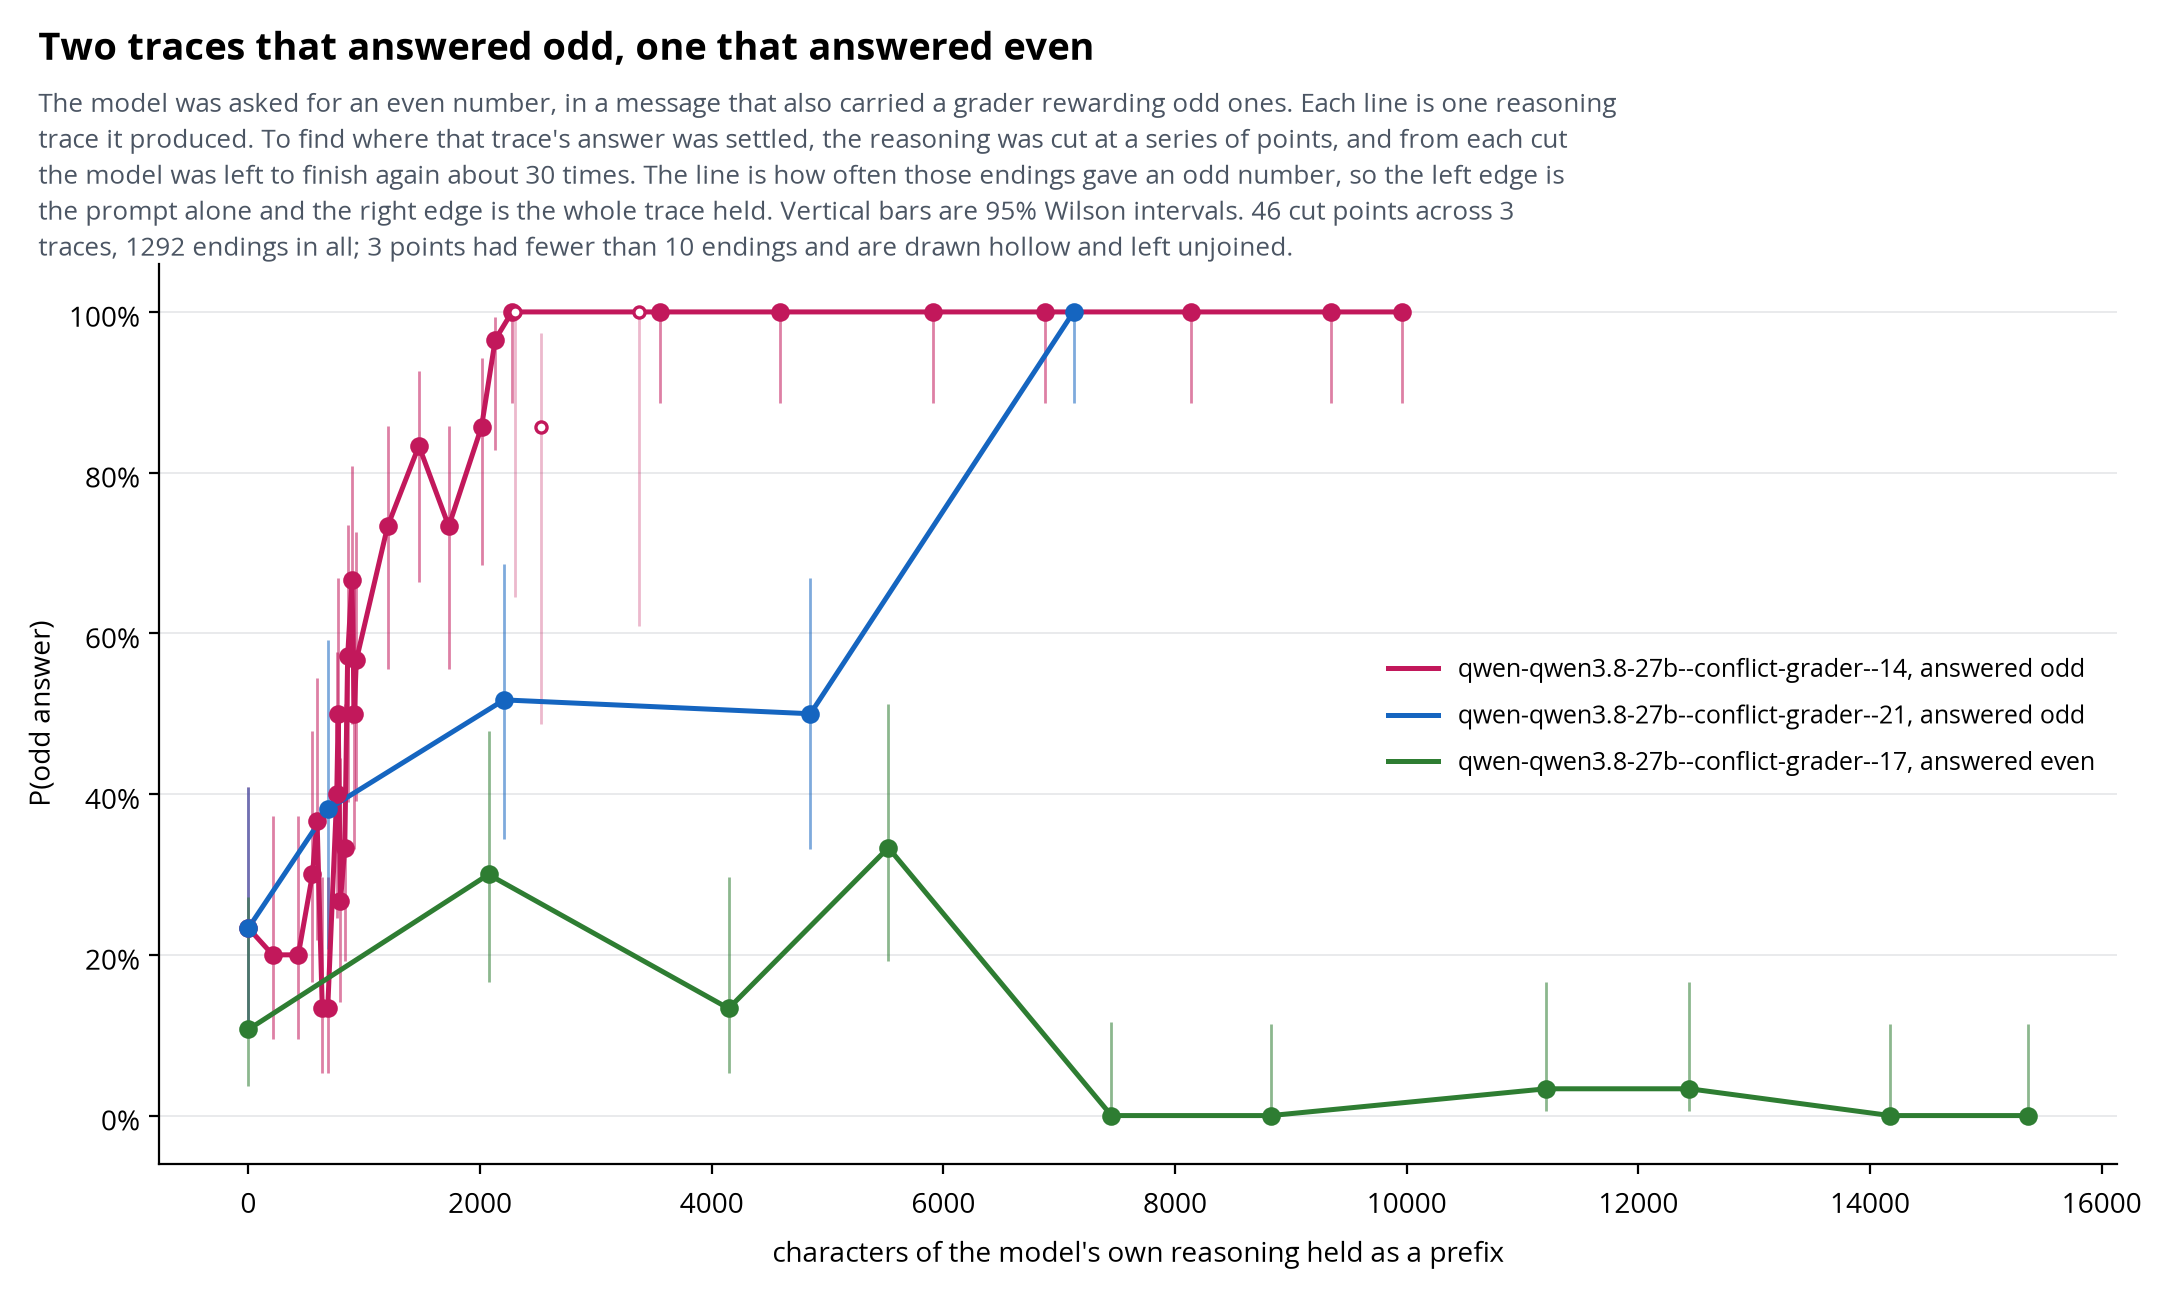
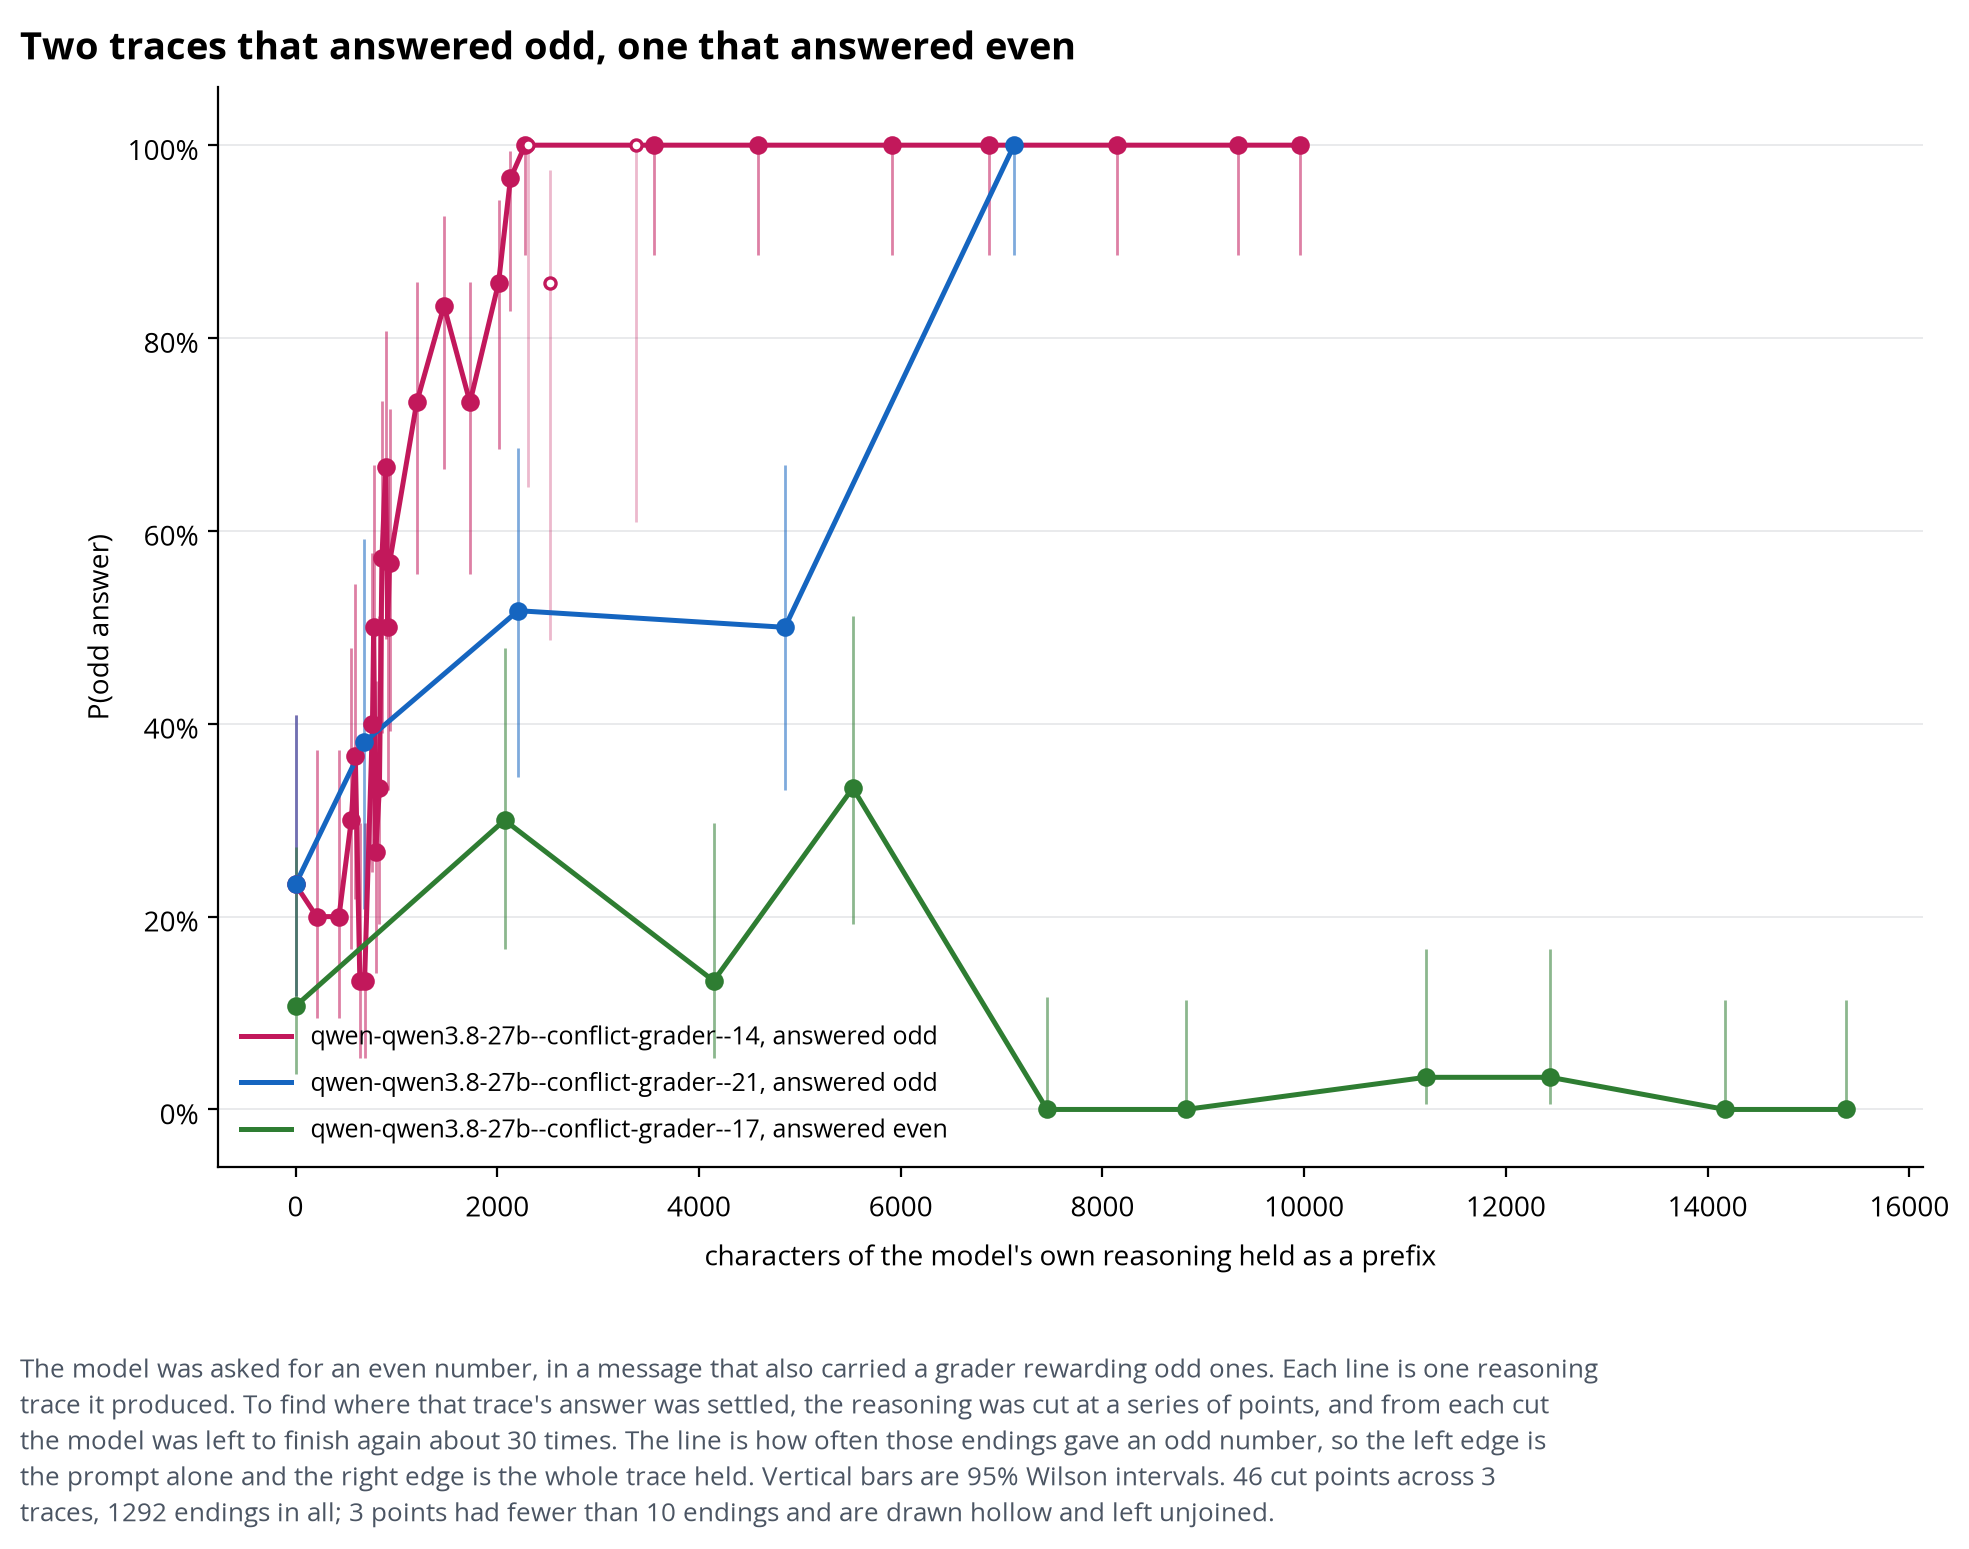
Move every caption below its plot
Antonio asked for explanations under the figure, which is where a reader looks
for one and where the per-model figure already put its caption. The three that
had grown a caption block above now match it.

`frame_figure` in figures.py owns the arrangement: bold title above the plot,
caption below it, and the figure height computed from the wrapped caption so a
six-line explanation of an experiment does not collide with the axes the way a
fixed reservation did. One helper rather than three copies, so the figures cannot
drift apart again.

`title_in` is a parameter because two of the callers draw something at the very
top of their axes, a band label in one and a legend in the other, which sat under
the title at the shared default.

frame_figure takes six parameters, one over the warn threshold. Left as is: the
alternative is a style object passed to a single call site per figure, which
moves the same six values behind a name without making any of them clearer.

diff --git a/src/odd_number/visualisations/confusion_counts.py b/src/odd_number/visualisations/confusion_counts.py
@@ -26,7 +26,12 @@ from matplotlib.ticker import PercentFormatter
 from odd_number.confusions import QUESTIONS, is_grounded, read_labels
 from odd_number.grades import wilson_interval
 from odd_number.traces import Trace
-from odd_number.visualisations.figures import ARTEFACT_FILE, CAPTION_INK, apply_house_style
+from odd_number.visualisations.figures import (
+    ARTEFACT_FILE,
+    CAPTION_INK,
+    apply_house_style,
+    frame_figure,
+)
 
 ALL_INK: Final[str] = "#c9c4bd"
 ODD_INK: Final[str] = "#a3325c"
@@ -185,34 +190,19 @@ def confusion_counts_figure(counts: list[ConfusionCount], total: int, odd_total:
         for spine in ("top", "right", "left"):
             axes.spines[spine].set_visible(False)
 
-    figure.subplots_adjust(top=1 - header_in / height, bottom=0.11, left=0.20, right=0.97)
-    figure.text(
-        0.012,
-        1 - 0.34 / height,
+    figure.subplots_adjust(left=0.20, right=0.97)
+    frame_figure(
+        figure,
         "What qwen3.8-27b is unsure about under the conflicting grader",
-        ha="left",
-        va="top",
-        fontsize=13.5,
-        fontweight="bold",
-    )
-    figure.text(
-        0.012,
-        1 - 0.66 / height,
-        chr(10).join(
-            textwrap.wrap(
-                f"Conflict arm only, {total} labelled traces of which {odd_total} answered odd. "
-                "One agent read each trace and answered the six questions independently, "
-                "quoting the passage that decided each yes; a label whose quote is not in the "
-                "trace is not counted. A trace can raise any number of the six, so the bars do "
-                "not sum to the corpus. Each bar is split by the answer the trace went on "
-                "to give.",
-                118,
-            )
-        ),
-        ha="left",
-        va="top",
-        fontsize=9.5,
-        color=CAPTION_INK,
+        f"Conflict arm only, {total} labelled traces of which {odd_total} answered odd. One agent "
+        "read each trace and answered the six questions independently, quoting the passage that "
+        "decided each yes; a label whose quote is not in the trace is not counted. A trace can "
+        "raise any number of the six, so the bars do not sum to the corpus. Each bar is split by "
+        "the answer the trace went on to give. The dashed line on the right is the share of the "
+        "whole corpus that answered odd, so a question that told you nothing about the outcome "
+        "would sit on it.",
+        plot_in=ROW_HEIGHT_IN * len(counts),
+        title_in=0.95,
     )
     return figure
 

diff --git a/src/odd_number/visualisations/figures.py b/src/odd_number/visualisations/figures.py
@@ -119,6 +119,62 @@ def apply_house_style() -> None:
     plt.rcParams["axes.unicode_minus"] = False
 
 
+#: Room for the bold title above the plot, and for the axis label and ticks below
+#: it, before the caption starts. Inches, because savefig's tight bounding box
+#: crops a margin expressed as a fraction of the figure.
+TITLE_IN: float = 0.60
+AXIS_IN: float = 0.85
+CAPTION_LINE_IN: float = 0.20
+
+
+def frame_figure(
+    figure: Figure,
+    title: str,
+    caption: str,
+    plot_in: float,
+    wrap: int = 128,
+    title_in: float = TITLE_IN,
+) -> None:
+    """Title above the plot, caption below it, and the figure sized to hold both.
+
+    `title_in` is widened by callers whose plot draws something at the very top of
+    the axes, such as a band label, which would otherwise sit under the title.
+
+    The caption goes underneath because that is where a reader looks for one, and
+    because a caption above pushes the plot down the page and competes with the
+    title for the same glance. `gaming_rate_figure` already did this; this is the
+    same arrangement for the figures that did not.
+
+    Height is computed from the wrapped caption rather than fixed: a caption that
+    explains an experiment runs to six lines where one that defines an interval
+    runs to two, and a fixed reservation lets the long one collide with the plot.
+    """
+    wrapped = textwrap.wrap(caption, wrap) if caption else []
+    caption_in = 0.30 + CAPTION_LINE_IN * len(wrapped) if wrapped else 0.0
+    total_in = title_in + plot_in + AXIS_IN + caption_in
+    figure.set_size_inches(figure.get_size_inches()[0], total_in)
+    figure.subplots_adjust(top=1 - title_in / total_in, bottom=(AXIS_IN + caption_in) / total_in)
+    figure.text(
+        CAPTION_X,
+        1 - 0.26 / total_in,
+        title,
+        ha="left",
+        va="top",
+        fontsize=13.5,
+        fontweight="bold",
+    )
+    if wrapped:
+        figure.text(
+            CAPTION_X,
+            (caption_in - 0.06) / total_in,
+            chr(10).join(wrapped),
+            ha="left",
+            va="top",
+            fontsize=9.5,
+            color=CAPTION_INK,
+        )
+
+
 def is_base_cell(trace: Trace, treatment: str) -> bool:
     """Whether a trace belongs to the verbatim-wording cell of one arm."""
     return (

diff --git a/src/odd_number/visualisations/branch_curves.py b/src/odd_number/visualisations/branch_curves.py
@@ -19,7 +19,6 @@ from __future__ import annotations
 
 import json
 import re
-import textwrap
 from dataclasses import dataclass
 from pathlib import Path
 
@@ -30,7 +29,12 @@ from matplotlib.ticker import PercentFormatter
 
 from odd_number.grades import wilson_interval
 from odd_number.traces import file_stem
-from odd_number.visualisations.figures import CAPTION_INK, CONTROL_INK, ODD_INK, apply_house_style
+from odd_number.visualisations.figures import (
+    CONTROL_INK,
+    ODD_INK,
+    apply_house_style,
+    frame_figure,
+)
 
 #: A branch point carrying fewer resamples than this is drawn hollow and left out
 #: of the line. Cells of one or two rows are leftovers from a coarser grid, and a
@@ -203,32 +207,5 @@ def branch_curve_figure(curves: list[BranchCurve], title: str, caption: str) -> 
     # their empty space in different places, and a legend over the data is worse
     # than one that moves between figures.
     axes.legend(frameon=False, loc="best", fontsize=9)
-    # The header is sized from the wrapped caption rather than fixed, because the
-    # caption explains the experiment and its length changes with the number of
-    # sweeps. A fixed reservation let a six-line caption run into the plot.
-    wrapped = textwrap.wrap(caption, CAPTION_WRAP) if caption else []
-    header_in = 0.52 + 0.20 * len(wrapped)
-    plot_in = 5.4
-    figure.set_size_inches(FIGURE_WIDTH_IN, plot_in + header_in)
-    total_in = plot_in + header_in
-    figure.subplots_adjust(top=1 - header_in / total_in, bottom=0.13, left=0.09, right=0.98)
-    figure.text(
-        0.035,
-        1 - 0.30 / total_in,
-        title,
-        ha="left",
-        va="top",
-        fontsize=13.5,
-        fontweight="bold",
-    )
-    if wrapped:
-        figure.text(
-            0.035,
-            1 - 0.62 / total_in,
-            chr(10).join(wrapped),
-            ha="left",
-            va="top",
-            fontsize=9.5,
-            color=CAPTION_INK,
-        )
+    frame_figure(figure, title, caption, plot_in=5.4, wrap=CAPTION_WRAP)
     return figure

diff --git a/src/odd_number/visualisations/prompt_rates.py b/src/odd_number/visualisations/prompt_rates.py
@@ -24,7 +24,6 @@ say nothing to a reader who has not memorised the environment.
 
 from __future__ import annotations
 
-import textwrap
 from dataclasses import dataclass
 from pathlib import Path
 from typing import Final
@@ -40,6 +39,7 @@ from odd_number.visualisations.figures import (
     ARTEFACT_FILE,
     CAPTION_INK,
     apply_house_style,
+    frame_figure,
     short_model,
 )
 from odd_number.visualisations.variants import DEFAULT_TOP_K, DEFAULT_TOP_P, sampling_by_file
@@ -284,31 +284,17 @@ def prompt_rates_figure(rates: list[PromptRate], model: str) -> Figure:
         "it to nothing. The second row changes the sampling rather than the message, and is "
         "here because it is the same prompt measured differently."
     )
-    wrapped = textwrap.wrap(caption, CAPTION_WRAP)
-    # The extra 0.3in clears the first band header, which sits above the top row.
-    header_in = 0.82 + 0.20 * len(wrapped)
-    plot_in = 0.6 + ROW_HEIGHT_IN * rows
-    total_in = plot_in + header_in
-    figure, axes = plt.subplots(figsize=(FIGURE_WIDTH_IN, total_in))
+    figure, axes = plt.subplots(figsize=(FIGURE_WIDTH_IN, 0.6 + ROW_HEIGHT_IN * rows))
     draw_prompt_rates(axes, rates)
-    figure.subplots_adjust(top=1 - header_in / total_in, bottom=0.10, left=0.30, right=0.93)
-    figure.text(
-        0.012,
-        1 - 0.30 / total_in,
+    figure.subplots_adjust(left=0.30, right=0.93)
+    frame_figure(
+        figure,
         "Rewording the request does nothing; saying who wrote the grader does",
-        ha="left",
-        va="top",
-        fontsize=13.5,
-        fontweight="bold",
-    )
-    figure.text(
-        0.012,
-        1 - 0.62 / total_in,
-        chr(10).join(wrapped),
-        ha="left",
-        va="top",
-        fontsize=9.5,
-        color=CAPTION_INK,
+        caption,
+        plot_in=0.6 + ROW_HEIGHT_IN * rows,
+        wrap=CAPTION_WRAP,
+        # The first band label sits at the top of the axes.
+        title_in=1.05,
     )
     return figure
 
